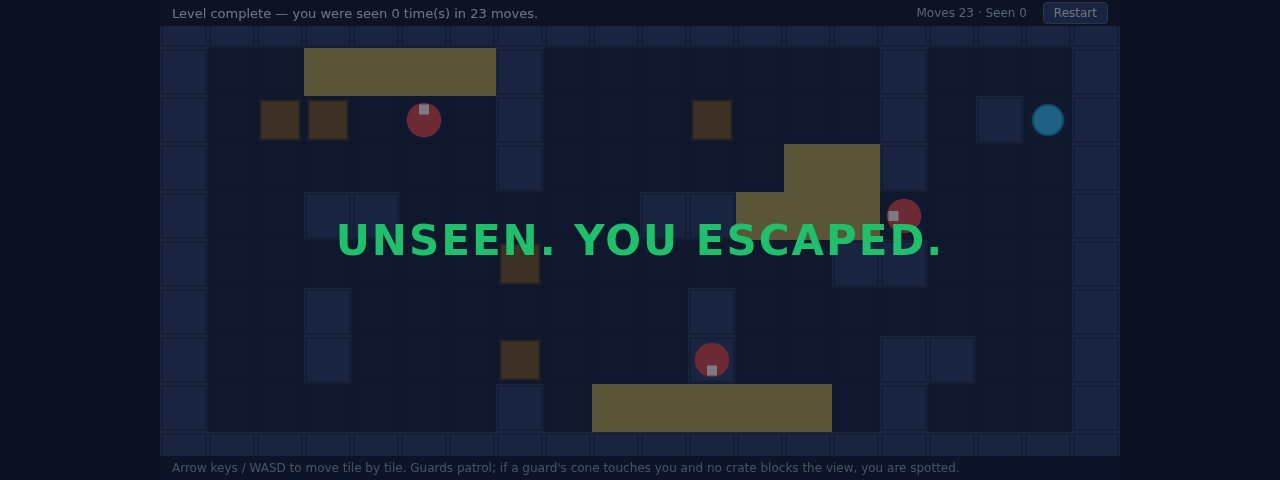
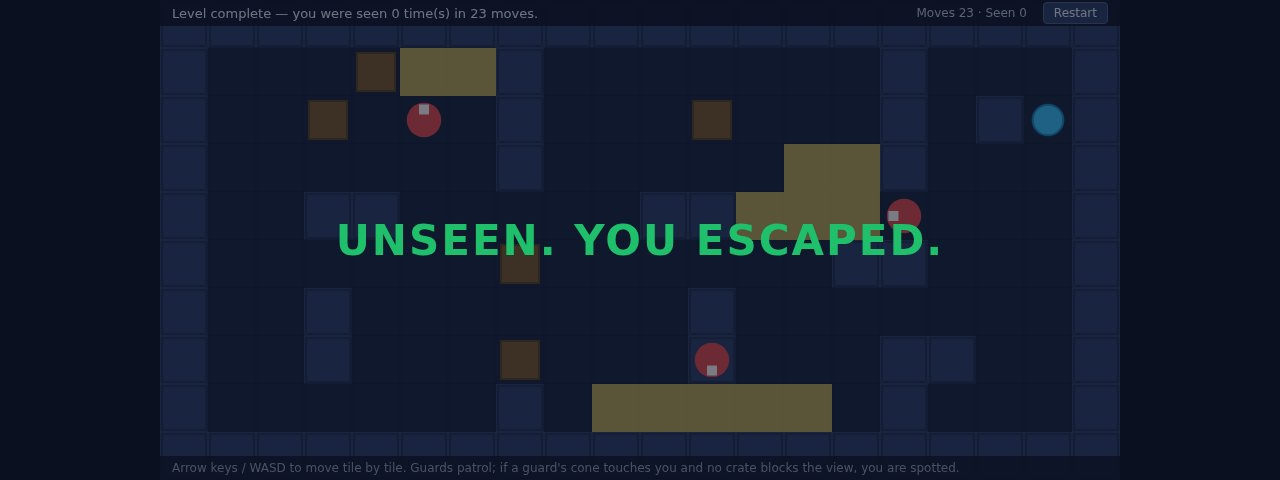
Stealth entry fix: robust main.ts paths, cover demo, README typo

Changed region(s): [[0.1875, 0.0938, 0.3125, 0.3125]]

diff --git a/main.ts b/main.ts
@@ -1,17 +1,22 @@
-import { mkdirSync, readdirSync, copyFileSync } from 'node:fs';
-import { join } from 'node:path';
+import { mkdirSync, readdirSync, copyFileSync, writeFileSync } from 'node:fs';
+import { join, resolve } from 'node:path';
+import { fileURLToPath } from 'node:url';
 import { buildDossier } from './vendor/makefun-game.ts';
+
+const root = resolve(fileURLToPath(new URL('.', import.meta.url)));
+const gameDir = join(root, 'game');
+const screenshotsDir = join(root, 'screenshots');
 
 const outDir = process.env.MAKEFUN_OUTPUT_DIR ?? '/output';
 
 mkdirSync(join(outDir, 'game'), { recursive: true });
 mkdirSync(join(outDir, 'screenshots'), { recursive: true });
 
-for (const name of readdirSync('game')) {
-  copyFileSync(join('game', name), join(outDir, 'game', name));
+for (const name of readdirSync(gameDir)) {
+  copyFileSync(join(gameDir, name), join(outDir, 'game', name));
 }
-for (const name of readdirSync('screenshots')) {
-  copyFileSync(join('screenshots', name), join(outDir, 'screenshots', name));
+for (const name of readdirSync(screenshotsDir)) {
+  copyFileSync(join(screenshotsDir, name), join(outDir, 'screenshots', name));
 }
 
 const dossier = buildDossier(outDir, {
@@ -22,5 +27,4 @@ const dossier = buildDossier(outDir, {
   game_path_max_bytes: 1000,
 });
 
-import { writeFileSync } from 'node:fs';
 writeFileSync(join(outDir, 'dossier.json'), dossier);

diff --git a/game/index.html b/game/index.html
@@ -45,8 +45,8 @@
   var TILE=48, COLS=20, ROWS=10;
   var MAP=[
     "####################",
-    "#......#.......#...#",
-    "#.CC...#...C...#.#E#",
+    "#...C..#.......#...#",
+    "#..C...#...C...#.#E#",
     "#......#.......#...#",
     "#..##.....##.......#",
     "#......C......##...#",
@@ -309,7 +309,7 @@ if(player.x===18&&player.y===2){win();return;}
   var shot=params.get("shot");
   initGuards();
   if(shot==="play"){
-    playSeq(["ArrowRight","ArrowRight","ArrowUp","ArrowUp","ArrowRight","ArrowRight","ArrowDown"]);
+    playSeq(["ArrowRight","ArrowLeft","ArrowRight","ArrowUp","ArrowUp","ArrowUp","ArrowUp","ArrowUp","ArrowUp","ArrowUp","ArrowRight"]);
   } else if(shot==="spotted"){
     playSeq(["ArrowUp","ArrowUp","ArrowUp","ArrowUp","ArrowUp","ArrowRight","ArrowRight","ArrowRight"]);
   } else if(shot==="end"){

diff --git a/README.md b/README.md
@@ -6,7 +6,7 @@ Silent Ledger is a complete, original top-down stealth game that plays offline i
 
 - **Move** — Use the **Arrow keys** or **WASD** to move one tile per press.
 - **Vision cones** — Guards sweep translucent yellow cones ahead of them. If a cone touches your tile and no wall or crate blocks the line of sight, you are spotted and sent back to the start.
-- **Crates** — Wooden crates block both movement and sightcars, so hiding behind one keeps you out of every cone.
+- **Crates** — Wooden crates block both movement and sight, so hiding behind one keeps you out of every cone.
 - **Exit** — Step onto the bright green tile to escape. Finish unseen to win.
 - **Restart** — Use the Restart button (or Space) to reset the level and your Moves/Seen counters.
 
